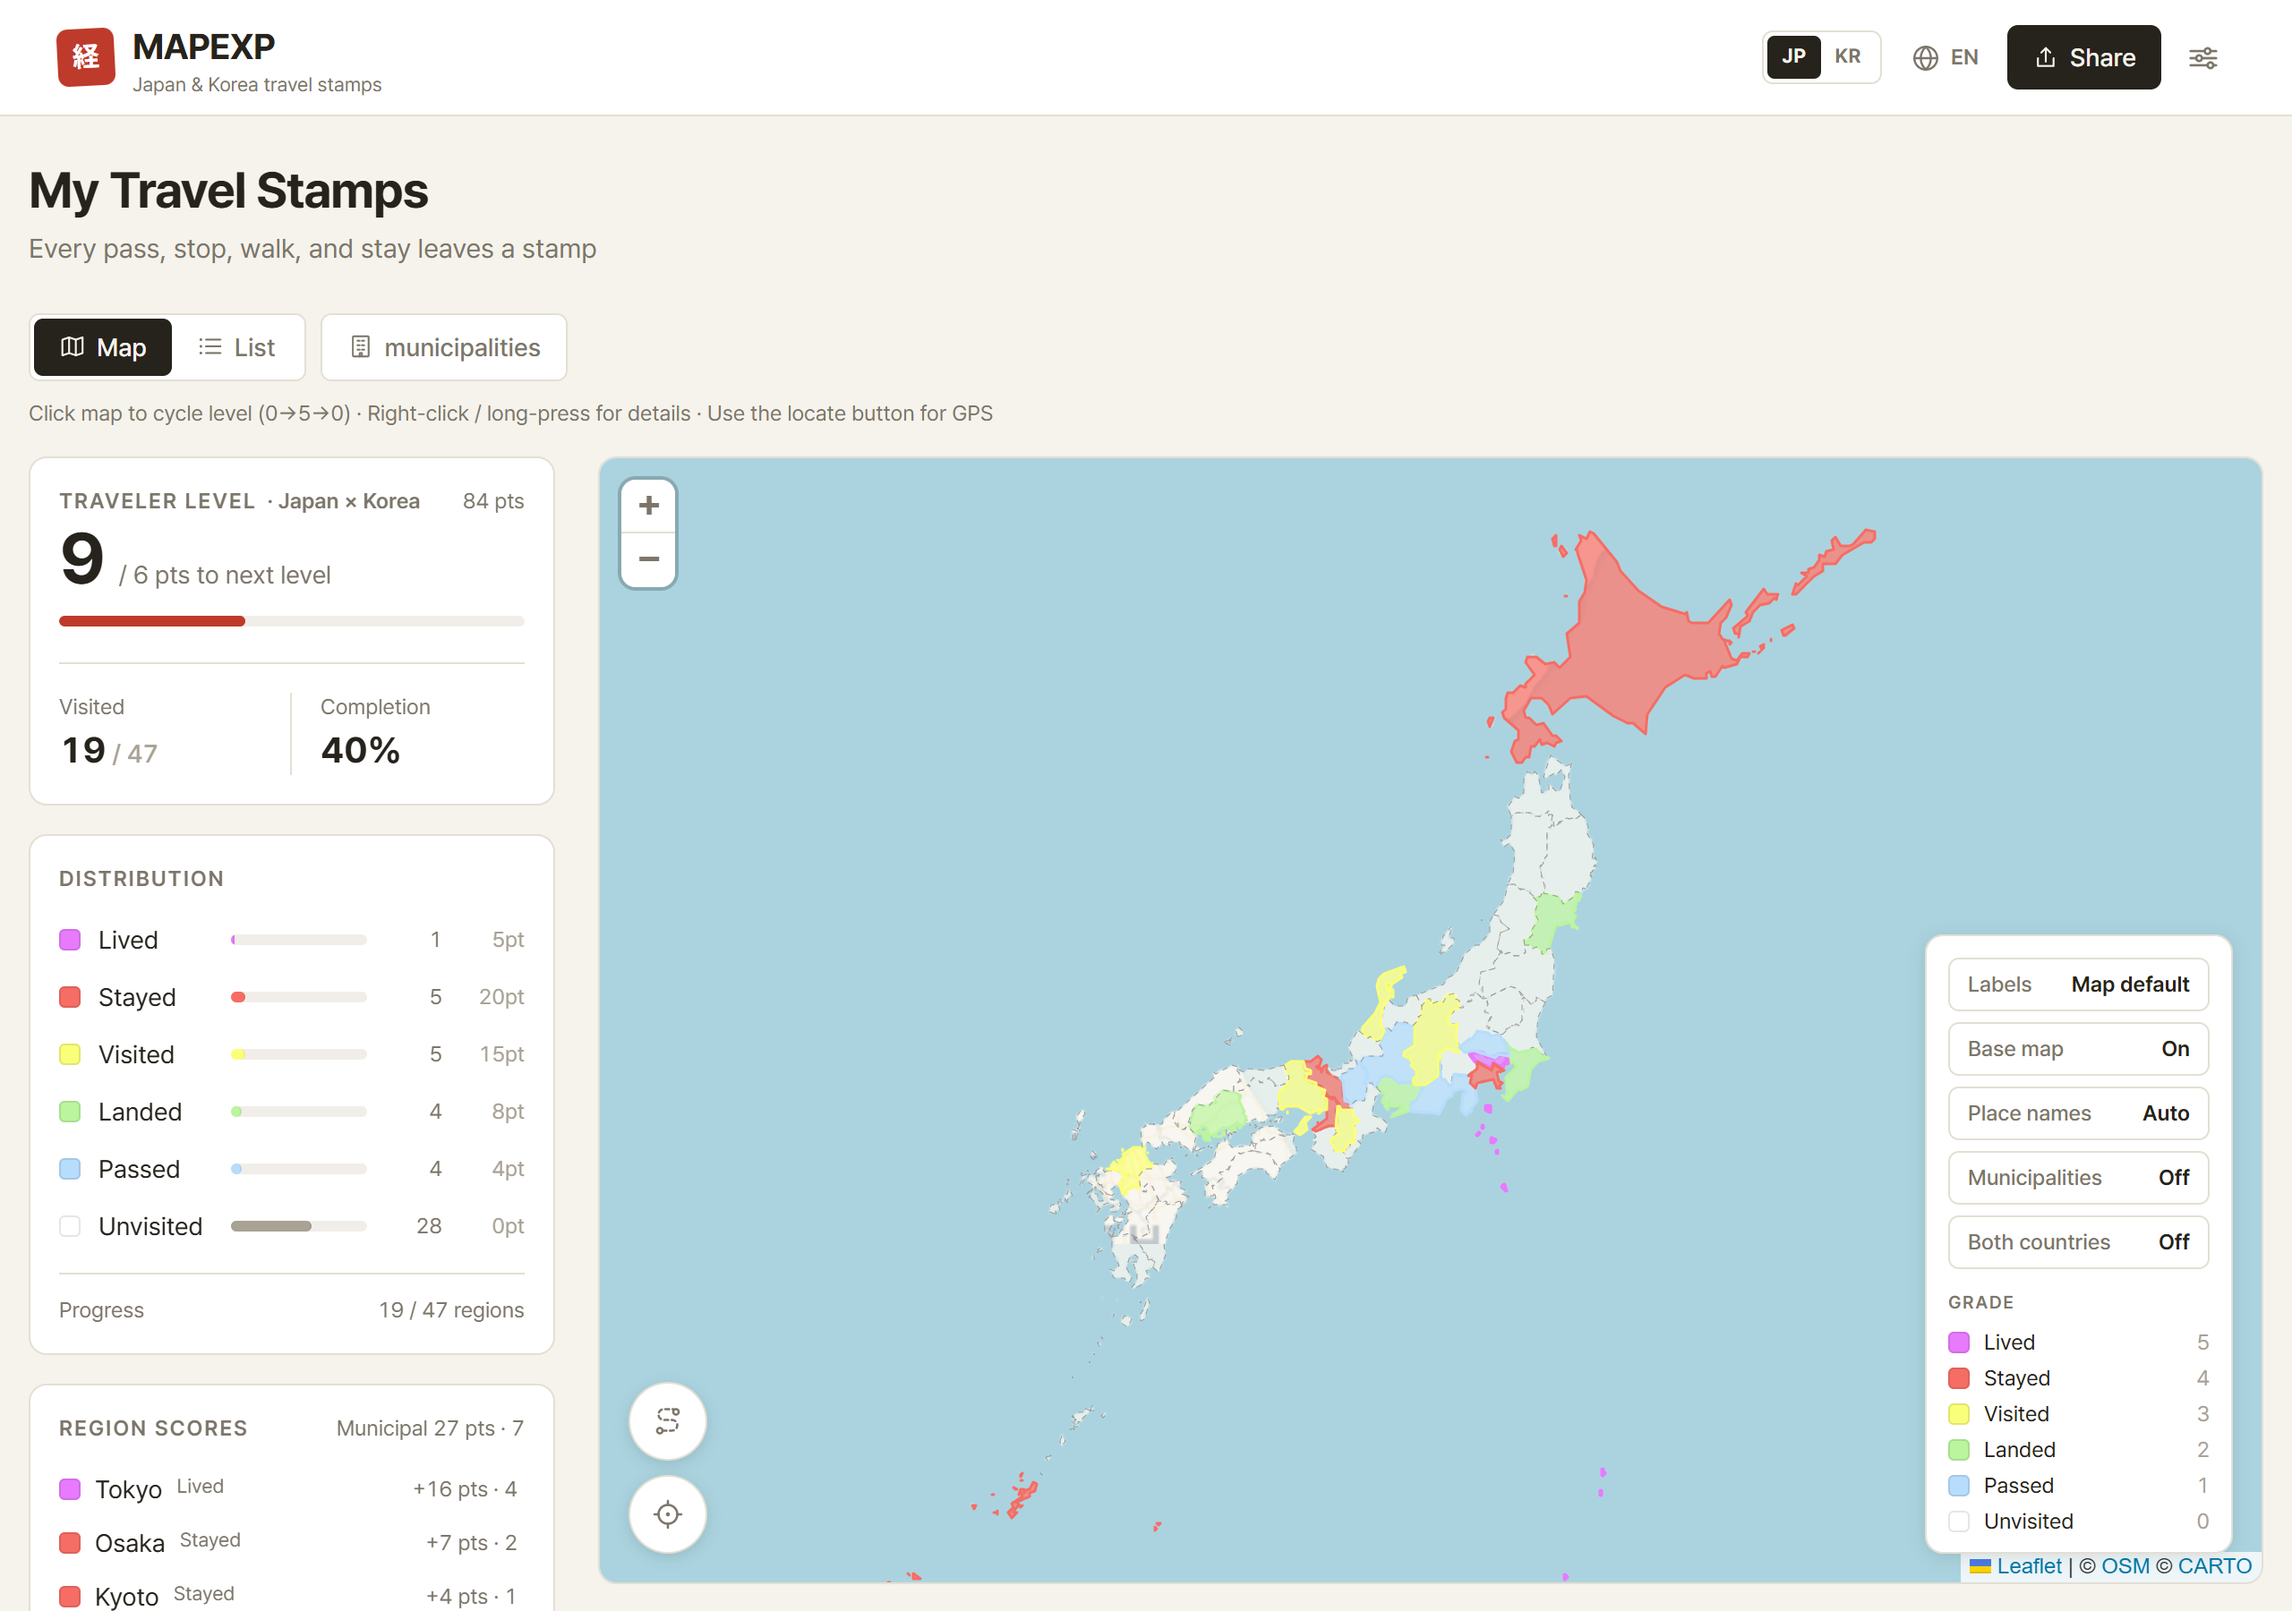
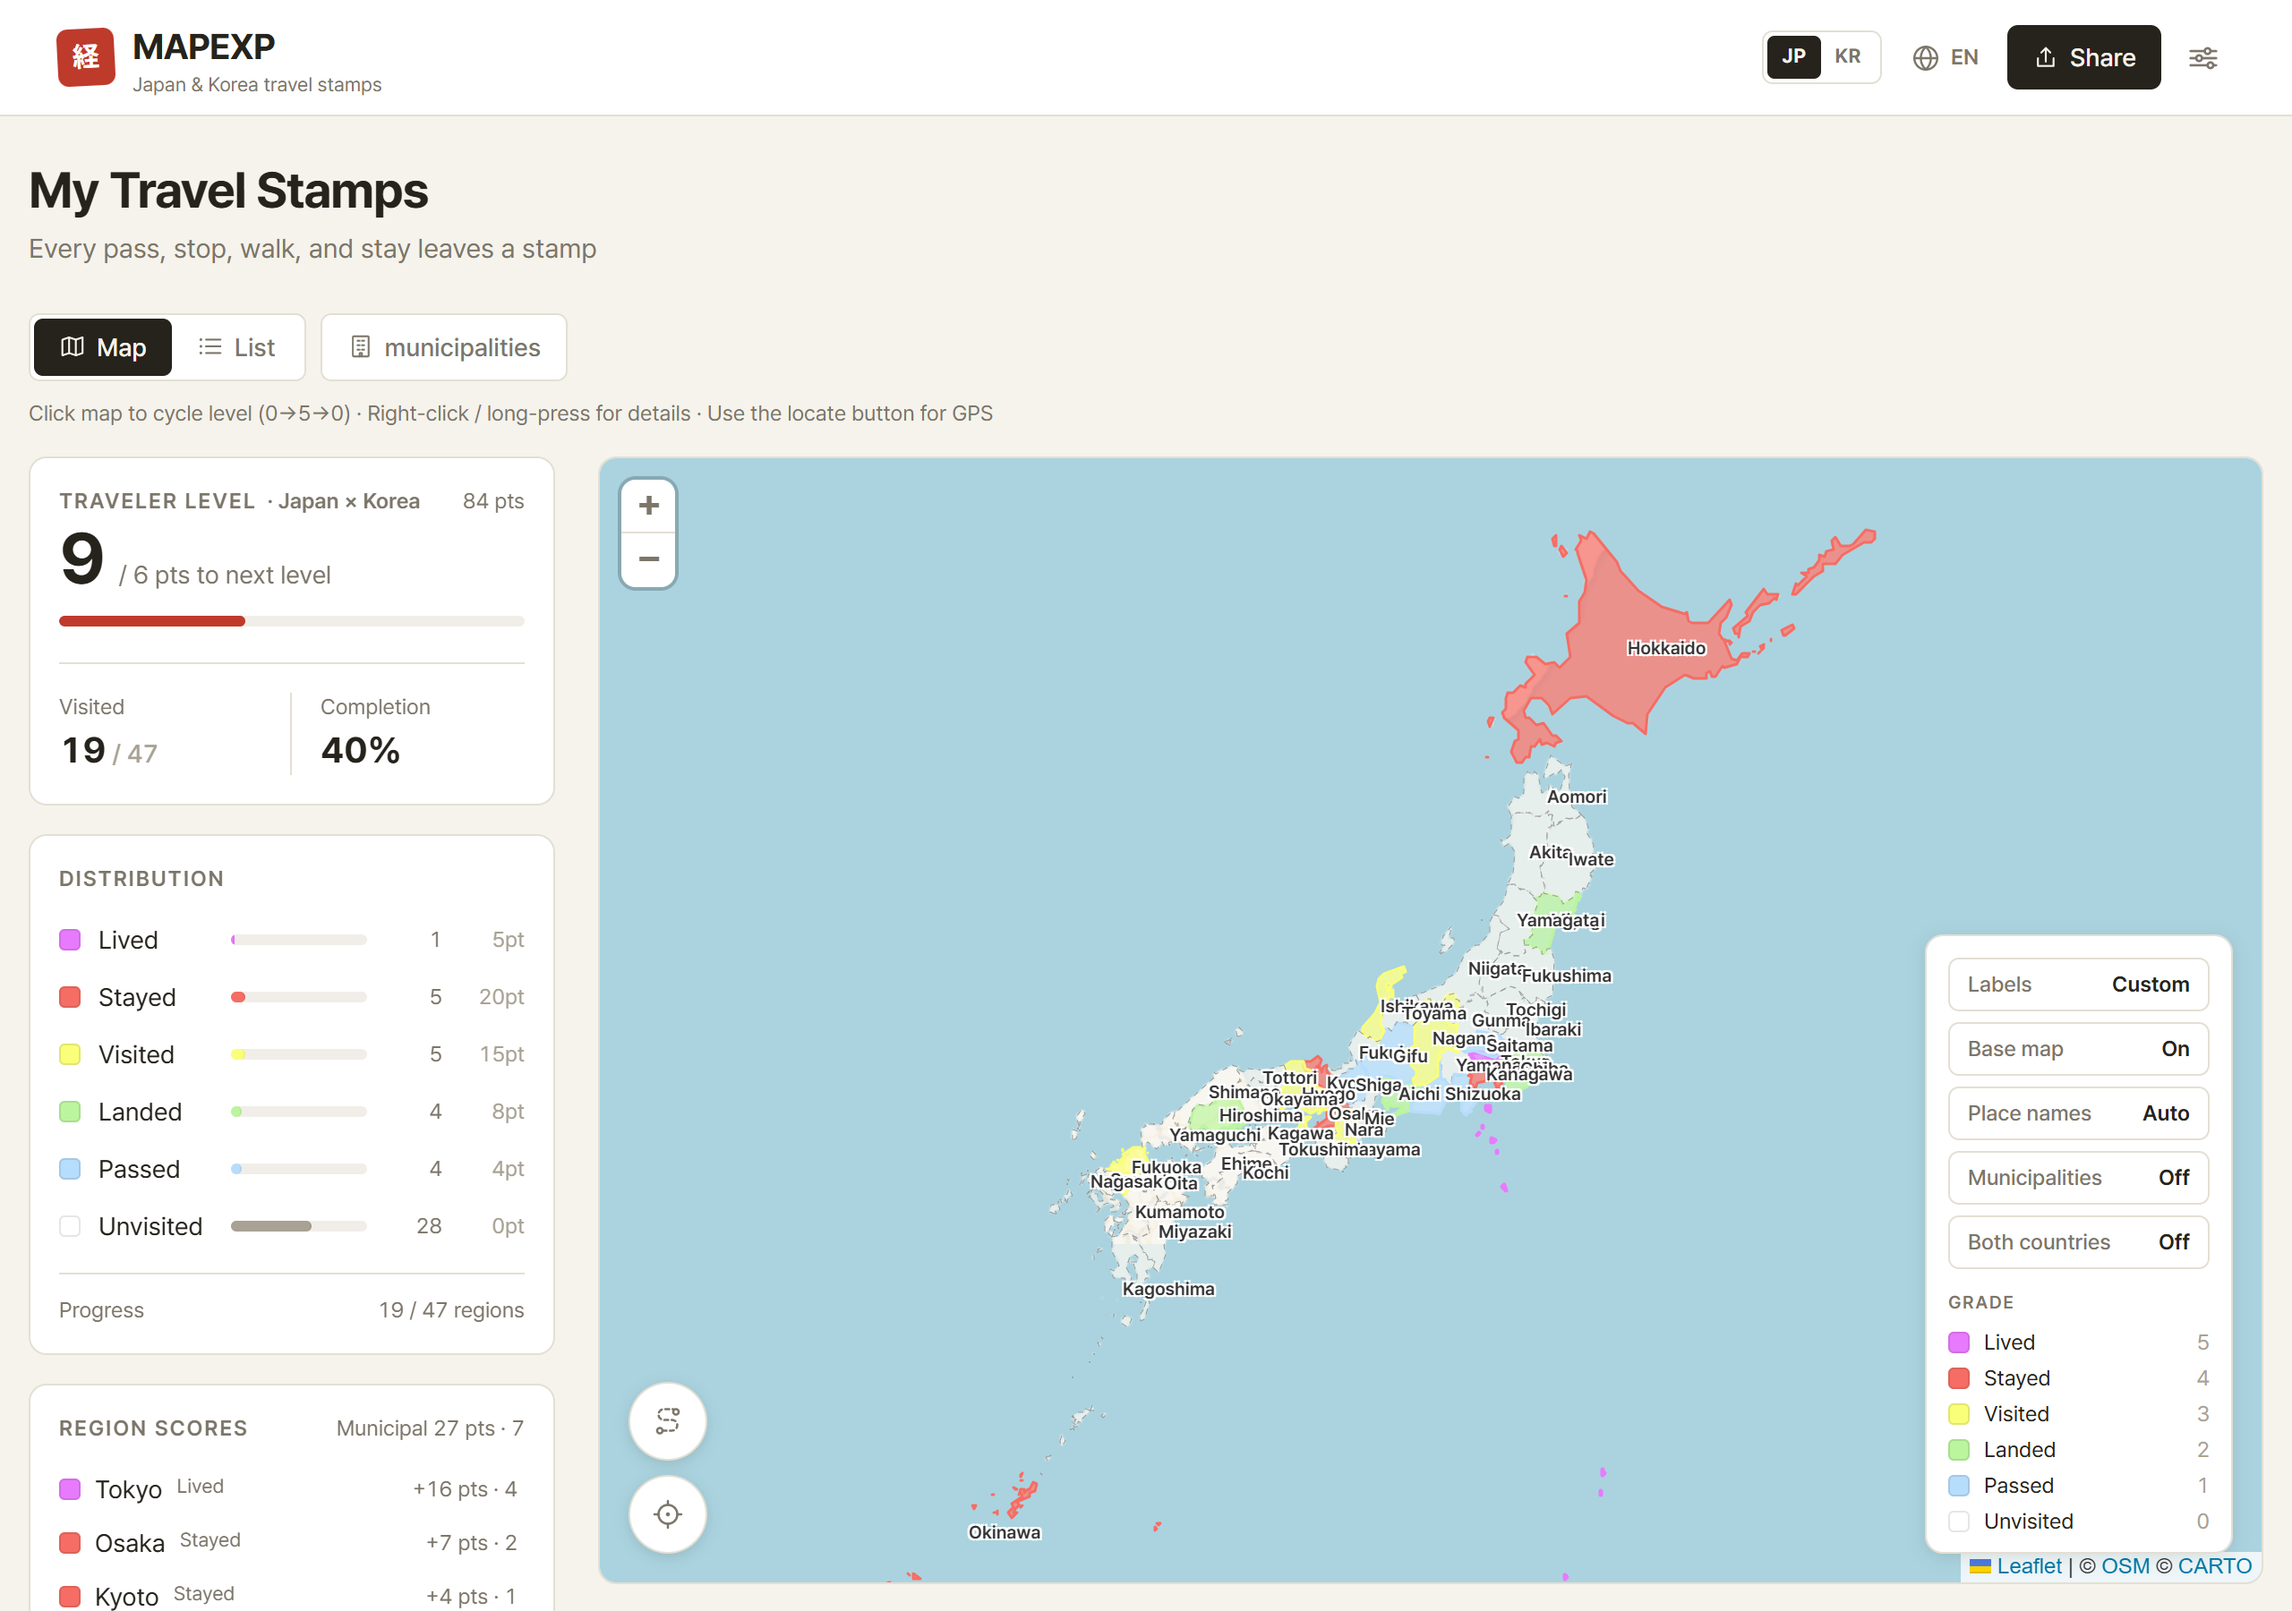
fix: 지명 라벨이 지명 언어 설정을 따르도록 - 기본 직접 표시, 양국 뷰 반대국 라벨, ja 가나 병기 축약

diff --git a/src/components/map/MapView.tsx b/src/components/map/MapView.tsx
@@ -218,7 +218,9 @@ export default function MapView({ onRegionClick, showBoth = false, onToggleBoth 
   const [regionLabels, setRegionLabels] = useState<RegionLabel[]>([])
   const [isLoading, setIsLoading] = useState(true)
   const [showTiles, setShowTiles] = useState(true) // 기본값: 타일 표시
-  const [labelMode, setLabelMode] = useState<LabelMode>('native') // Default to native for Japan focus
+  // 기본 '직접 표시': 타일 원본 라벨(CARTO)은 로마자 위주라 지명 언어 설정이 안 먹는다.
+  // 자체 라벨은 지명 언어(자동=UI 언어)를 따르므로 이쪽이 기본.
+  const [labelMode, setLabelMode] = useState<LabelMode>('custom')
   const [mapLevel, setMapLevel] = useState<'prefecture' | 'municipality'>('prefecture')
   const [viewPrefectureId, setViewPrefectureId] = useState<string | null>(null) // ID of the prefecture to show details for
   // 시정촌 표시 모드: 켜면 전국 기초 지역을 보여준다 (읽기 전용 - 수정은 관리 모달에서만)
@@ -231,10 +233,12 @@ export default function MapView({ onRegionClick, showBoth = false, onToggleBoth 
   const mapLang = useMapLang()
 
   // 라벨 표시명: 지도 언어별 선택 (ja는 한국 지역이면 한자+가나, 없으면 원어 폴백)
+  // 지도 라벨은 공간이 좁아 ja의 가나 병기 괄호를 뗀다 - '江原特別自治道(カンウォン)' → '江原特別自治道'
+  // (툴팁은 발음 학습용으로 가나를 유지)
   const labelText = (l: RegionLabel) =>
     mapLang === 'ko' ? (l.nameKo ?? l.name)
     : mapLang === 'en' ? (l.nameEn ?? l.name)
-    : (l.nameJa ?? l.name)
+    : (l.nameJa ?? l.name).replace(/\s*[(（].*?[)）]/g, '')
 
   // 타일 URL (CARTO Voyager - 무료 사용 가능한 합법 타일만 사용)
   const getTileUrl = (mode: LabelMode) =>
@@ -343,30 +347,35 @@ export default function MapView({ onRegionClick, showBoth = false, onToggleBoth 
       setRegionLabels(labels)
     } else if (baseGeoData && baseCountry === country && (baseGeoData as FeatureCollection).type === 'FeatureCollection') {
       const labels: RegionLabel[] = []
-      ;(baseGeoData as FeatureCollection).features.forEach((feat) => {
-        const props = feat.properties as Record<string, string | null>
-        if (!props?.id) return
-        const id = props.id
-        let position: [number, number]
-        if (LABEL_OVERRIDES[id]) position = LABEL_OVERRIDES[id]
-        else {
-          const centroid = geoCentroid(feat)
-          position = [centroid[1], centroid[0]]
-        }
-        const meta = getRegionMetadata(id)
-        if (meta?.hidden) return
-        labels.push({
-          id,
-          name: props.name as string,
-          nameKo: meta?.name,
-          nameEn: meta?.nameEn,
-          nameJa: meta ? regionDisplayName(meta, 'ja') : undefined,
-          position,
+      const collectPrefLabels = (fc: FeatureCollection) => {
+        fc.features.forEach((feat) => {
+          const props = feat.properties as Record<string, string | null>
+          if (!props?.id) return
+          const id = props.id
+          let position: [number, number]
+          if (LABEL_OVERRIDES[id]) position = LABEL_OVERRIDES[id]
+          else {
+            const centroid = geoCentroid(feat)
+            position = [centroid[1], centroid[0]]
+          }
+          const meta = getRegionMetadata(id)
+          if (meta?.hidden) return
+          labels.push({
+            id,
+            name: props.name as string,
+            nameKo: meta?.name,
+            nameEn: meta?.nameEn,
+            nameJa: meta ? regionDisplayName(meta, 'ja') : undefined,
+            position,
+          })
         })
-      })
+      }
+      collectPrefLabels(baseGeoData as FeatureCollection)
+      // 양국 동시 표시 중엔 반대 국가 라벨도 함께 (없으면 한쪽만 이름이 뜬다)
+      if (showBoth && secondaryGeoData) collectPrefLabels(secondaryGeoData)
       setRegionLabels(labels)
     }
-  }, [showMuniLayer, mapLevel, viewPrefectureId, overlayGeoData, baseGeoData, baseCountry, country])
+  }, [showMuniLayer, mapLevel, viewPrefectureId, overlayGeoData, baseGeoData, baseCountry, country, showBoth, secondaryGeoData])
 
   // 양국 동시 표시: 반대 국가 광역 데이터 로드 (geo.ts 공용 로더 - ID 주입·캐싱)
   // 국가 전환 시 스테일 데이터가 새 key로 박제되지 않도록 즉시 비운다

diff --git a/CHANGELOG.md b/CHANGELOG.md
@@ -43,6 +43,15 @@
 - 통계 분포 바 대비·두께 개선 (트랙이 안 보이던 문제)
 - '{기초 지역} 관리' → '{기초 지역} 도장 찍기' (일본어는 経県値 용어)
 
+### 개선 3차 (지명 라벨)
+
+- **지명 라벨 기본값을 '직접 표시'로**: 타일 원본(CARTO) 라벨은 로마자
+  위주라 '지명 언어' 설정이 안 먹었음 — 자체 라벨은 설정(자동=UI 언어)을
+  항상 따름. '지도 원본'은 옵션으로 유지
+- **양국 지도에서 반대 국가 라벨 표시** (기존: 현재 국가만 이름이 보임)
+- **일본어 지도 라벨 간결화**: 한국 지명의 가나 병기 괄호를 지도 라벨에서
+  제거 ('江原特別自治道(カンウォン)' → '江原特別自治道'). 툴팁은 가나 유지
+
 ### 문서
 
 - README 3언어 갱신 (원조 팔레트·실행취소·롱프레스·합산 레벨 반영)
